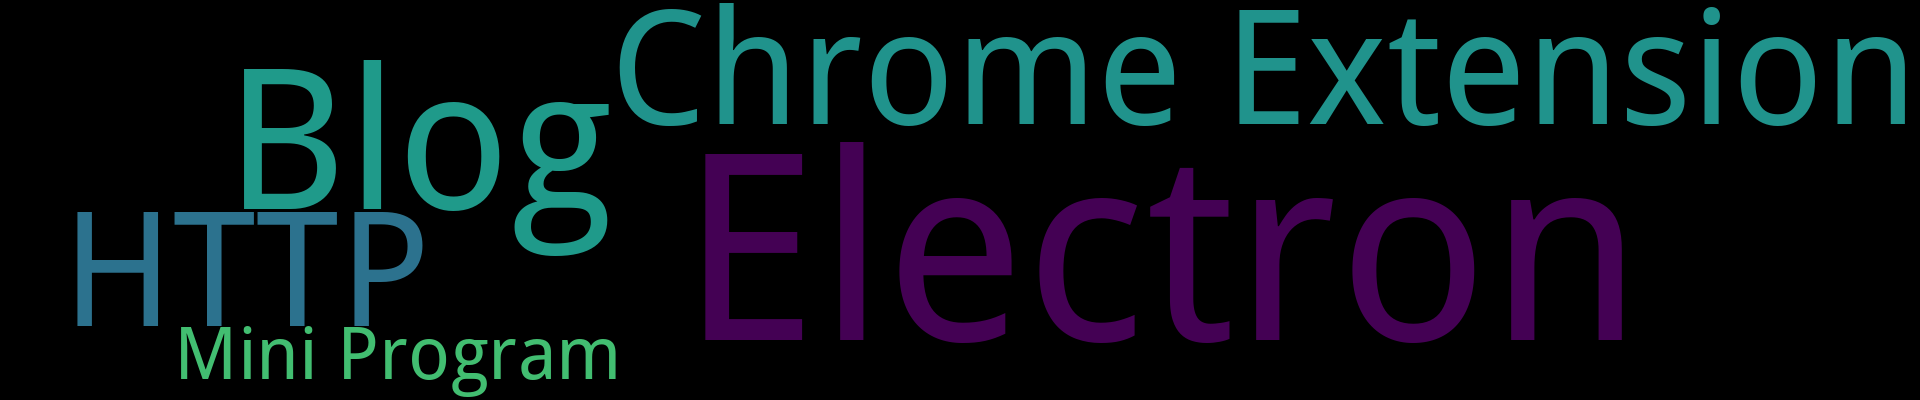
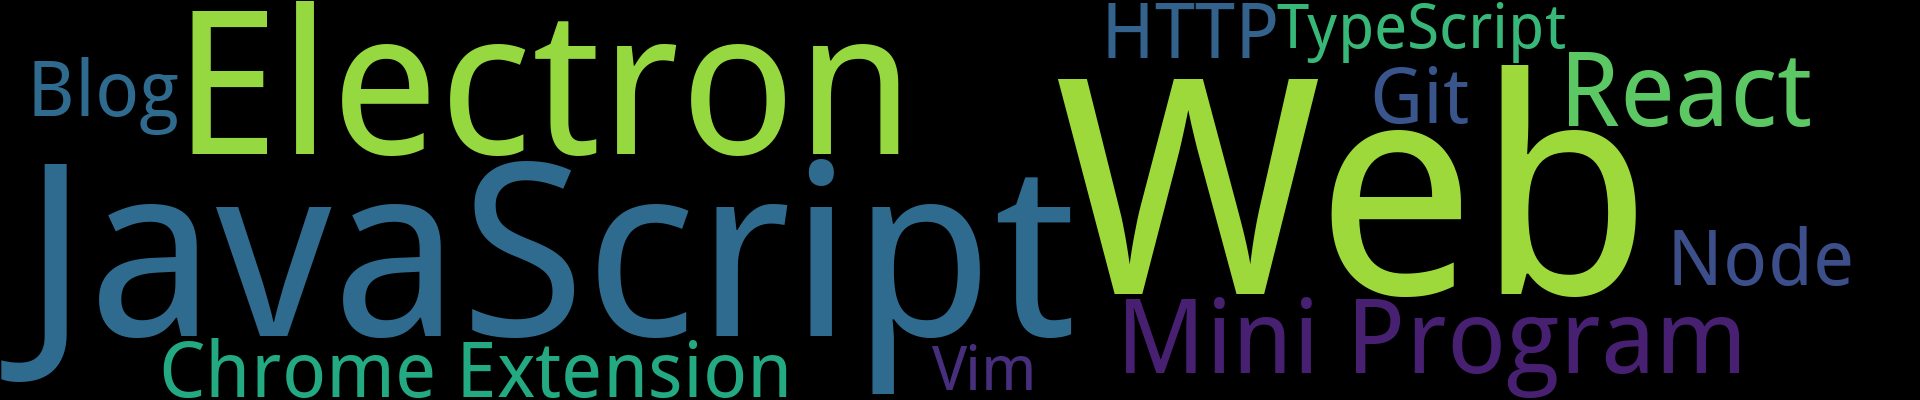
Update from Github Action

diff --git a/README.md b/README.md
@@ -3,7 +3,7 @@
 
 <p align='center'>
     <img src="https://badgen.net/github/issues/lei4519/Blog"/>
-    <img src="https://badgen.net/badge/last-commit/2024-03-25 06:47:20"/>
+    <img src="https://badgen.net/badge/last-commit/2024-03-25 08:29:26"/>
 </p>
     
 <summary>
@@ -41,6 +41,16 @@
 
 </details>
             
+## Git
+
+<details open>
+<summary>[1篇]</summary>
+
+- 2024-03-25 [Git Book 笔记](https://github.com/lei4519/Blog/issues/40) 
+
+
+</details>
+            
 ## HTTP
 
 <details open>
@@ -51,12 +61,79 @@
 
 </details>
             
+## JavaScript
+
+<details open>
+<summary>[3篇]</summary>
+
+- 2024-03-25 [RxJS 操作符快速入门](https://github.com/lei4519/Blog/issues/52) 
+- 2024-03-25 [正则表达式](https://github.com/lei4519/Blog/issues/51) 
+- 2024-03-25 [事件循环 - JS是怎么运行的？](https://github.com/lei4519/Blog/issues/47) 
+
+
+</details>
+            
 ## Mini Program
+
+<details open>
+<summary>[2篇]</summary>
+
+- 2024-03-25 [小程序框架原理总结](https://github.com/lei4519/Blog/issues/43) 
+- 2024-03-25 [给原生小程序安排上 Composition API](https://github.com/lei4519/Blog/issues/42) 
+
+
+</details>
+            
+## Node
 
 <details open>
 <summary>[1篇]</summary>
 
-- 2024-03-25 [给原生小程序安排上 Composition API](https://github.com/lei4519/Blog/issues/42) 
+- 2024-03-25 [child_process spawn 模块用法](https://github.com/lei4519/Blog/issues/44) 
+
+
+</details>
+            
+## React
+
+<details open>
+<summary>[2篇]</summary>
+
+- 2024-03-25 [React Server Component](https://github.com/lei4519/Blog/issues/55) 
+- 2024-03-25 [React 渲染流程](https://github.com/lei4519/Blog/issues/50) 
+
+
+</details>
+            
+## TypeScript
+
+<details open>
+<summary>[1篇]</summary>
+
+- 2024-03-25 [玩转 TS - 实现 dva 的完整类型推导](https://github.com/lei4519/Blog/issues/46) 
+
+
+</details>
+            
+## Vim
+
+<details open>
+<summary>[1篇]</summary>
+
+- 2024-03-25 [Vim ESC 键的解决方案](https://github.com/lei4519/Blog/issues/54) 
+
+
+</details>
+            
+## Web
+
+<details open>
+<summary>[4篇]</summary>
+
+- 2024-03-25 [JS 实现流式打包下载](https://github.com/lei4519/Blog/issues/53) 
+- 2024-03-25 [模块联邦 微前端思考](https://github.com/lei4519/Blog/issues/49) 
+- 2024-03-25 [使用 IntersectionObserver 实现图片懒加载](https://github.com/lei4519/Blog/issues/48) 
+- 2024-03-25 [PC 端 REM 布局非 Chrome 浏览器字号小于 12px 的解决方案](https://github.com/lei4519/Blog/issues/45) 
 
 
 </details>
